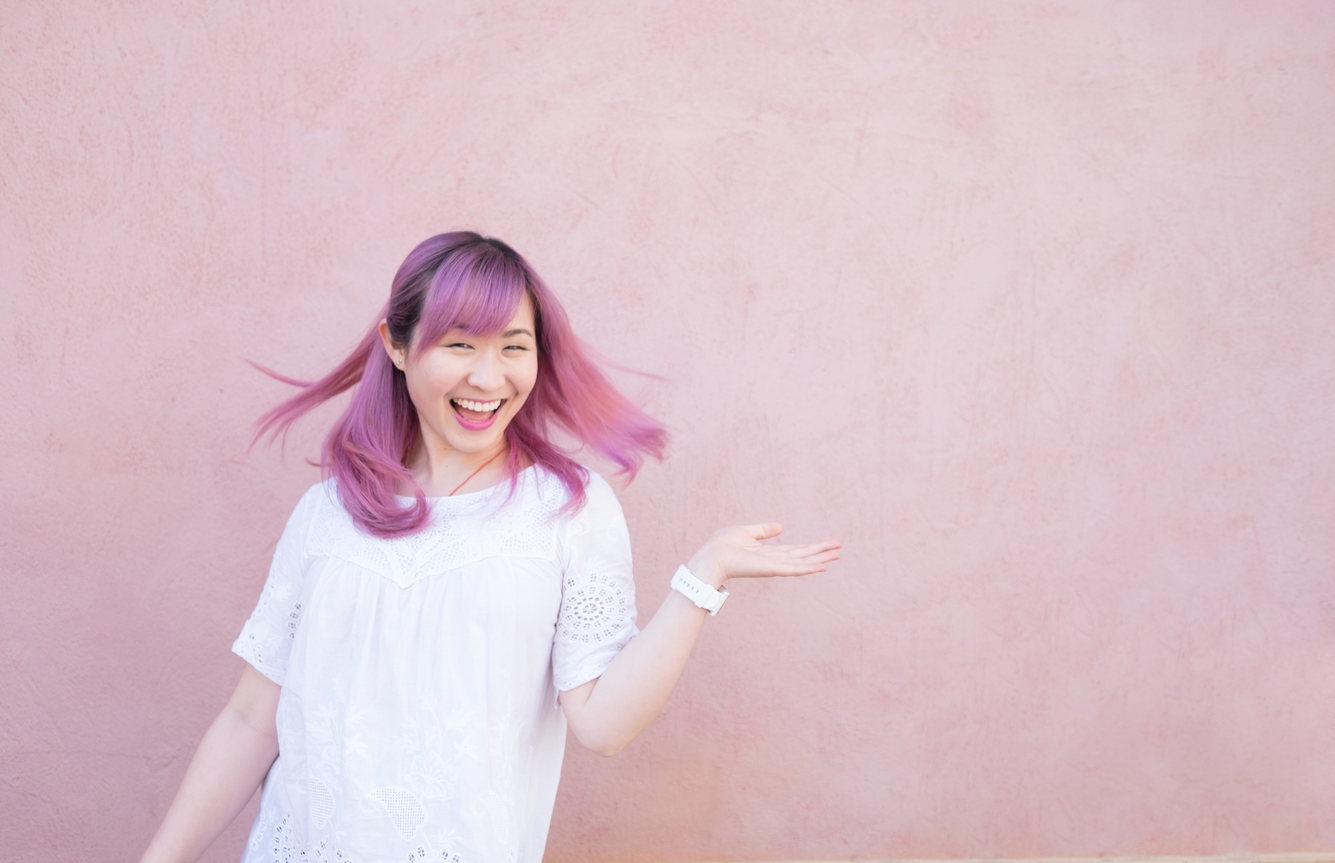
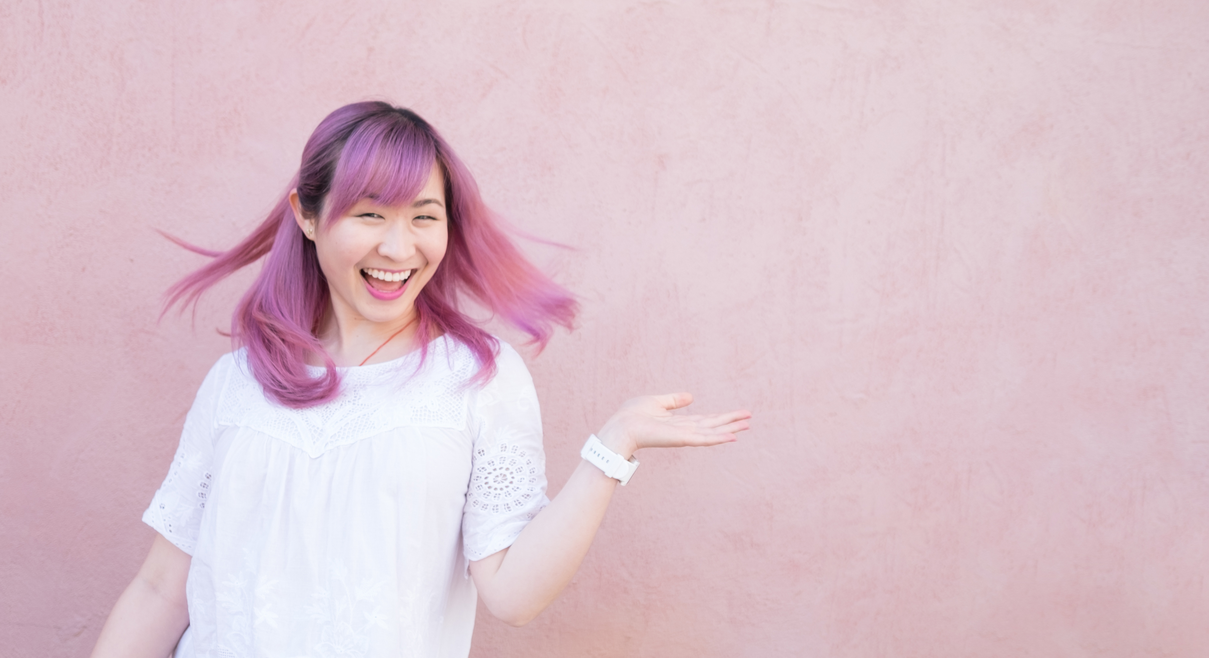
pics set

diff --git a/src/Landing.js b/src/Landing.js
@@ -1,7 +1,7 @@
 import React, { Component } from 'react';
 import './Landing.css';
-import landingSmall from './images/landing_small.jpg';
-import landing from './images/landing_cropped.jpg';
+import landingSmall from './images/landing_small.jpg';  // for mobile landing
+import landing from './images/landing.jpg';     // for other landing
 
 class Landing extends Component {
     // send the click back to parent to handle scroll

diff --git a/src/Landing.css b/src/Landing.css
@@ -44,11 +44,11 @@ ul.app-menu .app-brand {
     margin-right: 8%;
     margin-top: 200px;
     margin-bottom: 0;
-    font-size: 6.5vw;
+    font-size: 6vw;
 }
 
 .app-intro p {
-    font-size: 5vw;
+    font-size: 4vw;
     margin-right: 8%;
     margin-top:0;
 
